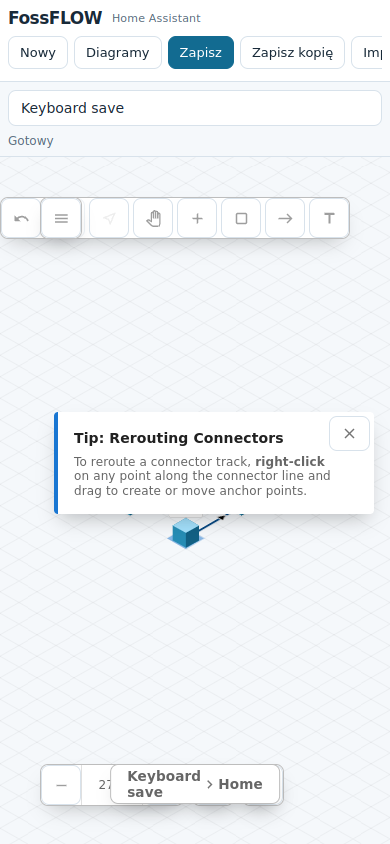
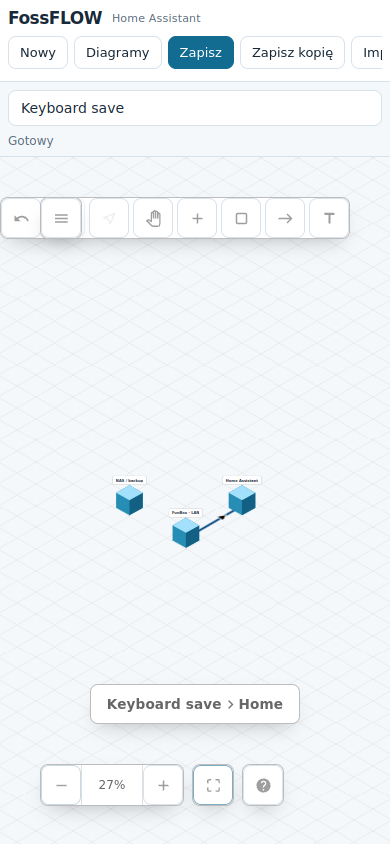
Fix zoom bounds and mobile controls; make conflict test independent of autosave timing

diff --git a/fossflow/docs/TEST_REPORT.md b/fossflow/docs/TEST_REPORT.md
@@ -4,10 +4,12 @@ Data: 2026-10-08. Środowisko: Ubuntu 24.04, amd64, Node 24.19.0,
 Python 3.12.14, Chromium 133.0.6943.0 sterowany Playwright 1.51.1.
 Obraz docelowy używa Node 22 Alpine i obsługuje amd64/aarch64.
 
-**Wynik: 31 testów runtime i 21 scenariuszy przeglądarkowych zakończonych pozytywnie.**
+**Wynik: 31 testów runtime i 22 scenariusze przeglądarkowych zakończonych pozytywnie.**
 Sprawdzono także metadane, zgodność opcji, schematy Supervisora i składnię AppArmor.
-Nie wykonano testu działającego Supervisor, uruchomienia obrazu Docker ani
-egzekwowania profilu przez jądro na HA OS. Status wydania: experimental.
+W GitHub Actions zbudowano i uruchomiono obrazy Docker amd64 i aarch64
+(Node 22 Alpine), wraz z testami API/start/health/SIGTERM. Nie wykonano testu
+działającego Supervisor ani egzekwowania profilu przez jądro na HA OS.
+Status wydania: experimental.
 
 ## Wykonane
 
@@ -21,9 +23,11 @@ egzekwowania profilu przez jądro na HA OS. Status wydania: experimental.
 | Oficjalny schemat HA | config i tłumaczenia zaakceptowane przez SCHEMA_APP_CONFIG/SCHEMA_APP_TRANSLATIONS |
 | Oficjalne typy opcji HA | Wszystkie 31 domyślnych opcje przeszły AppOptions |
 | AppArmor | apparmor_parser 4.0.1, kompilacja bez ładowania profilu, kod 0 |
+| TypeScript frontend | tsc --noEmit, sukces; ES2020, poprawiony boolean upstream |
+| Docker amd64 i aarch64 | Build, 31 testów API w obrazie, start/health/deny loopback/SIGTERM: sukces |
 | Shell i JS | sh -n i node --check, sukces |
 | Runtime | 31/31, brak pominiętych testów |
-| Przeglądarka | 21/21, bez wyjątków strony i nieoczekiwanych 404/500 |
+| Przeglądarka | 22/22, bez wyjątków strony i nieoczekiwanych 404/500 |
 
 Walidatory pochodziły z repozytorium home-assistant/supervisor, commit
 `9ce1060ba7cfb833899d0ba81d8dbaf9fa4eed15`. Do wywołania izolowanych walidatorów
@@ -60,7 +64,7 @@ bez załadowania profilu. Profile HA OS i jego audit log wymagają testu docelow
 Test TLS generuje świeży certyfikat i jednorazowy klucz przez OpenSSL w katalogu
 tymczasowym, usuwanym po teście. Repozytorium nie zawiera kluczy TLS.
 
-## 21 scenariuszy browser
+## 22 scenariusze browser
 
 1. Edytor w iframe, symulowana brama Ingress, poprawne zasoby i API pod prefiksem.
 2. Import i zapis trzech urządzeń, połączenia oraz własnej ikony SVG.
@@ -83,11 +87,13 @@ Zrzuty ekranu i wyniki są w `docs/evidence/`.
 
 ## Ograniczenia i następne testy
 
-- Brak Docker daemon i uprawnień do kontenerów w środowisku wykonania. Nie twierdzi
-  się, że `docker build/run` lub pełna instalacja HA zostały tutaj wykonane.
-- CI jest w repozytorium: `.github/workflows/fossflow.yaml`; wynik Docker będzie
-  odnotowany po zakończeniu workflow. Sama konfiguracja nie jest wynikiem testu.
-- Nie wykonano runtime na aarch64 ani testu systemowego na HA OS.
+- W środowisku lokalnym nie ma Docker daemon. Testy obrazów przeprowadzono
+  na runnerach GitHub Actions, nie na urządzeniu użytkownika.
+- CI: `.github/workflows/fossflow.yaml`. Pełny przebieg zakończył się sukcesem:
+  [run 37767086268](https://github.com/matsob0123/hassio-addons/actions/runs/37767086268),
+  commit `5815a32bcf9e9372313f435e2e946fc9e88d5df6`.
+- Runtime aarch64 uruchomiono przez QEMU na runnerze amd64. Nie jest to
+  test na fizycznym Raspberry Pi ani test systemowy na HA OS.
 - HA Ingress był symulowany przez reverse proxy z usuwaniem prefiksu i nagłówkiem;
   rzeczywisty login HA, panel, watchdog i backup HA wymagają docelowego testu.
 - Nie testowano natywnego Safari iPhone; przetestowano viewport mobilny Chromium.
@@ -109,4 +115,11 @@ bez sekretów; CSP i null/nieprawidłowe payloady.
 
 Nowe scenariusze browser: kosz, download zapisanej kopii, import i usuwanie kopii,
 diagnostyka/Esc/fokus, skróty zapisu i kopii, startup latest oraz wyłączenie szkiców/siatki.
-Pełna lista 21 scenariuszy i wyników: `evidence/e2e-results.json`.
+Pełna lista 22 scenariusze i wyników: `evidence/e2e-results.json`.
+
+Kontrola wizualna wykryła nakładanie tytułu na zoom w upstream na ekranie 390 px.
+Poprawiono położenie tytułu, niedopuszczalną ujemną szerokość oraz odwrócone
+warunki blokady przycisków zoomu. Nowy scenariusz sprawdza przejście
+do obu granic zoomu i możliwość powrotu, a także brak nakładania kontrolek.
+Test konfliktu toleruje poprawne wykrycie zmiany przez autosave przed ręcznym
+zapisem; nie czeka wtedy na celowo zablokowany przycisk.

diff --git a/fossflow/CHANGELOG.md b/fossflow/CHANGELOG.md
@@ -9,7 +9,8 @@
 - Kopia przy starcie, konfigurowalny limit kopii, diagnostyka miejsca i danych.
 - Otwieranie ostatniego diagramu, sortowanie, opcjonalne szkice i siatka.
 - Przełącznik zewnętrznych ikon w CSP, skróty zapisu/kopii, fokus okien, stan offline.
-- 31 testów runtime i 21 scenariuszy przeglądarkowych, CI Docker amd64/aarch64.
+- 31 testów runtime i 22 scenariusze przeglądarkowych, CI Docker amd64/aarch64.
+- Kontrola typów TypeScript oraz poprawione granice zoomu i układ tytułu na telefonie.
 - Budowa frontendu na platformie buildera, runtime na architekturze urządzenia.
 
 

diff --git a/fossflow/tests/README.md b/fossflow/tests/README.md
@@ -7,6 +7,7 @@ npm ci
 npm run check
 npm test
 npm run build:frontend
+node .work/upstream/node_modules/typescript/bin/tsc --noEmit -p .work/upstream/packages/fossflow-app/tsconfig.json
 npx playwright install --with-deps chromium
 npm run test:e2e
 ```
